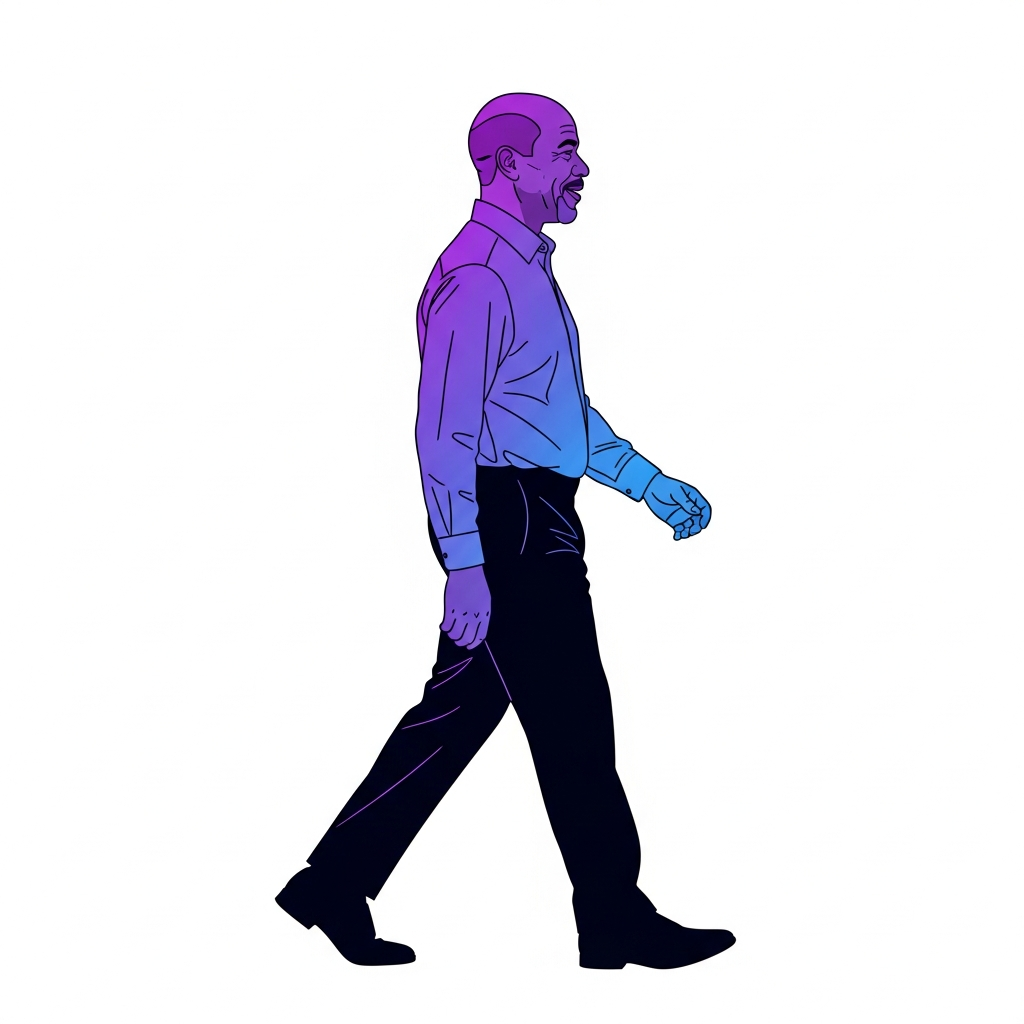
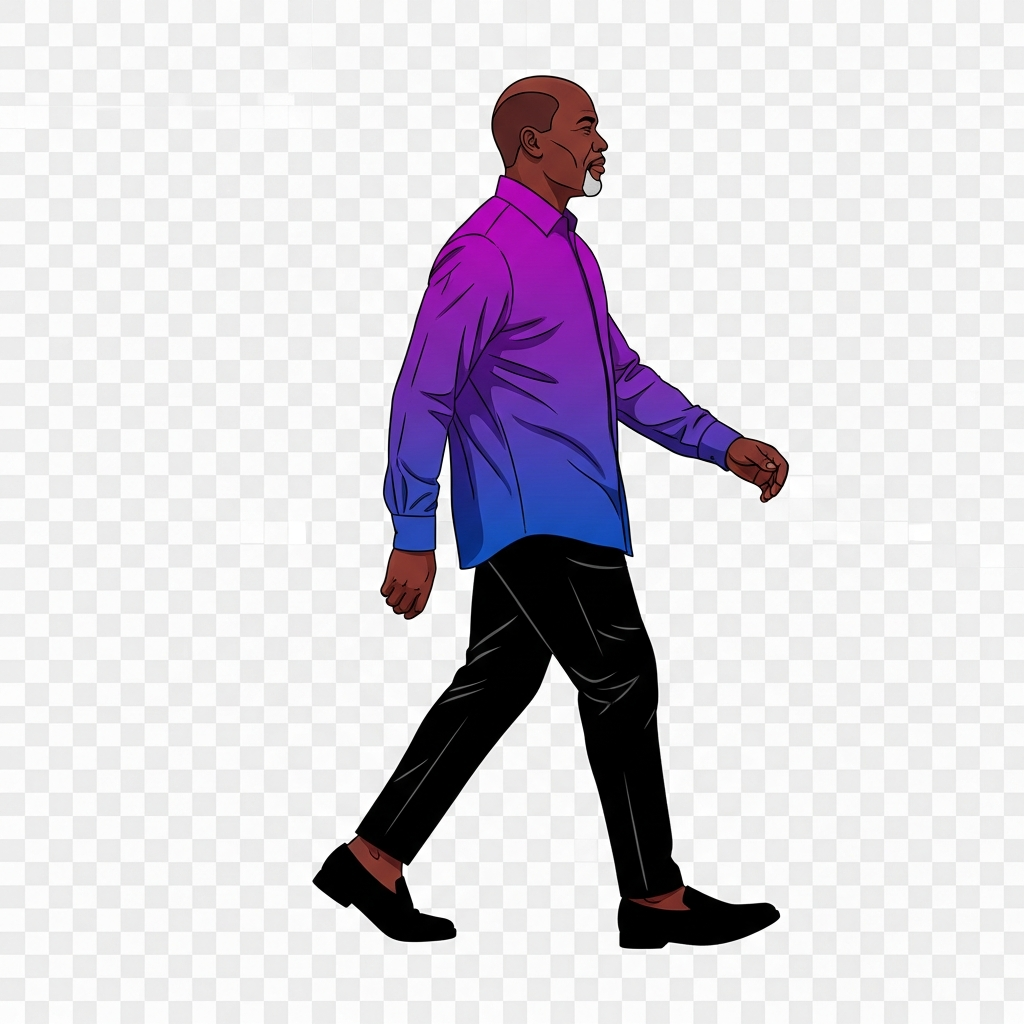
auto-commit for 4befd59d-98f7-4ab1-ad35-87138a6d90f0

Changed region(s): [[0.25, 0.0625, 0.7812, 0.9688]]

diff --git a/frontend/src/components/AIRichard.js b/frontend/src/components/AIRichard.js
@@ -626,13 +626,16 @@ const AIRichard = () => {
                 </div>
               </div>
             ) : (
-              // NEW: Walking figure (silhouette or purple)
+              // NEW: Walking figure (silhouette or purple) - NO WHITE BOX!
               <div className="w-32 h-32 group-hover:scale-110 transition-transform duration-300 animate-bounce-subtle">
                 <img 
                   src={walkingStyle === 'silhouette' ? '/richard-walking-silhouette.png' : '/richard-walking-purple.png'}
                   alt="Richard Johnson Walking"
                   className="w-full h-full object-contain drop-shadow-2xl"
-                  style={{ transform: walkDirection === -1 ? 'scaleX(-1)' : 'scaleX(1)' }}
+                  style={{ 
+                    transform: walkDirection === -1 ? 'scaleX(-1)' : 'scaleX(1)',
+                    background: 'transparent' // Force transparent background
+                  }}
                 />
               </div>
             )}
